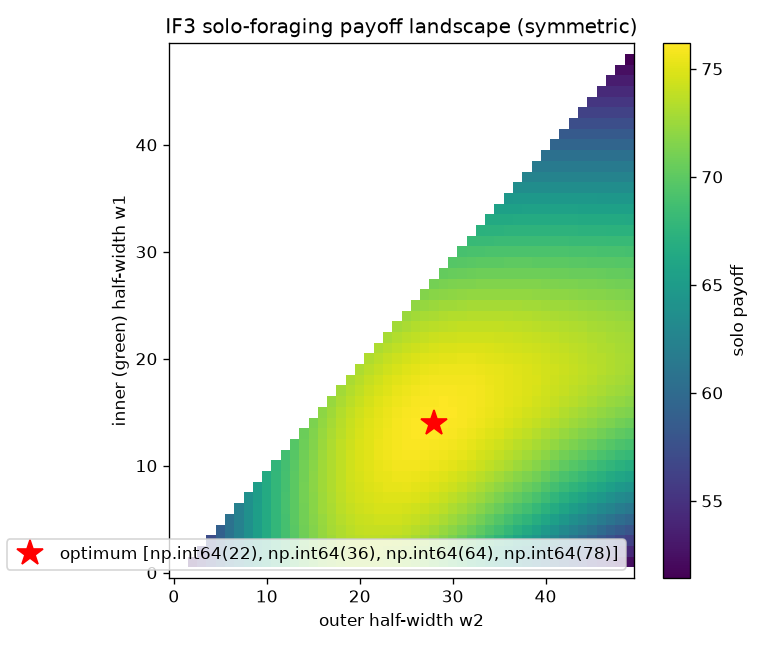
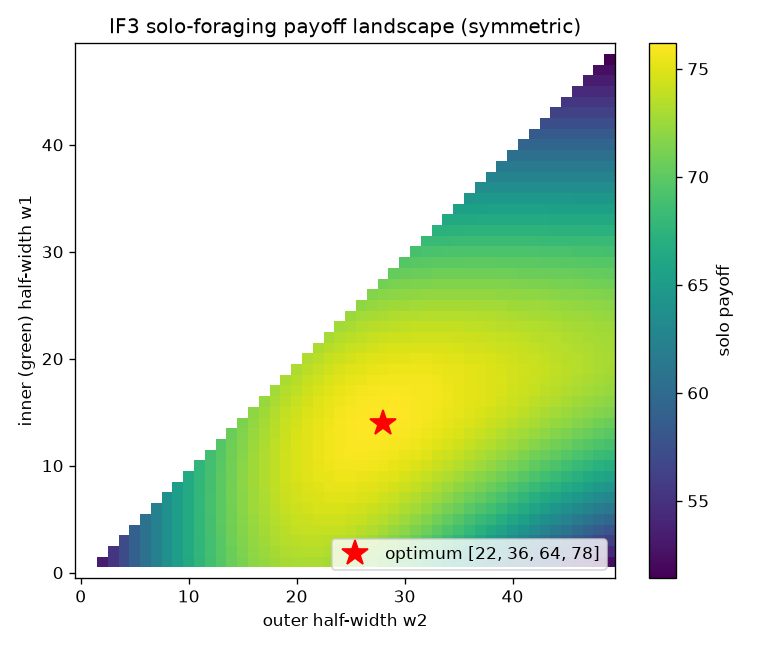
Rename optimize.py -> boundary_search.py; add docstring examples; fix IF3 label
- Rename the module and its tests to boundary_search (clearer than 'optimize').
- Add concrete worked examples to the module and function docstrings (the search
  in miniature, solo_foraging_payoff, optimize_boundaries, both candidate generators).
- Fix the IF3 landscape legend to show plain ints [22, 36, 64, 78] (was np.int64(...)).

Changed region(s): [[0.0, 0.0309, 0.9688, 0.9877], [0.6562, 0.8951, 0.7188, 0.9259], [0.0312, 0.3086, 0.0625, 0.3395]]

diff --git a/sim/tests/test_boundary_search.py b/sim/tests/test_boundary_search.py
@@ -1,5 +1,5 @@
 """
-Tests for sim/optimize.py (Chunk 5: the boundary optimizer).
+Tests for sim/boundary_search.py (Chunk 5: the boundary optimizer).
 
 Same philosophy: each function checked on its own against independently-computed
 expectations. The full CR3/IF3 anchor (boundaries ~30/70 etc.) is a slow validation
@@ -18,7 +18,7 @@ sys.path.insert(0, SIM_DIR)
 
 import competition  # noqa: E402
 import model  # noqa: E402
-import optimize  # noqa: E402
+import boundary_search  # noqa: E402
 
 
 def fresh_rng(seed=0):
@@ -33,7 +33,7 @@ def test_solo_foraging_payoff_takes_the_most_preferred_territory():
     """Ordinary case: forager takes its highest-preference territory and collects its worth."""
     preferences = np.array([[10.0, 30.0, 20.0]])   # territory 1 is most preferred
     round_utilities = np.array([[5.0, 9.0, 7.0]])
-    assert optimize.solo_foraging_payoff(preferences, round_utilities, fresh_rng()) == pytest.approx(9.0)
+    assert boundary_search.solo_foraging_payoff(preferences, round_utilities, fresh_rng()) == pytest.approx(9.0)
 
 
 def test_solo_foraging_truth_equals_best_of_three():
@@ -44,7 +44,7 @@ def test_solo_foraging_truth_equals_best_of_three():
     round_utilities = model.utility(foraging_rounds)
     truth = competition.truth_preferences(foraging_rounds)
 
-    engine = optimize.solo_foraging_payoff(truth, round_utilities, fresh_rng())
+    engine = boundary_search.solo_foraging_payoff(truth, round_utilities, fresh_rng())
     independent = round_utilities.max(axis=1).mean()
     assert engine == pytest.approx(independent)
 
@@ -57,7 +57,7 @@ def test_solo_foraging_all_ties_equals_mean_territory_worth():
     round_utilities = model.utility(foraging_rounds)
     flat_preferences = np.zeros_like(round_utilities)   # nothing distinguishes the territories
 
-    engine = optimize.solo_foraging_payoff(flat_preferences, round_utilities, fresh_rng(3))
+    engine = boundary_search.solo_foraging_payoff(flat_preferences, round_utilities, fresh_rng(3))
     assert engine == pytest.approx(round_utilities.mean(), abs=0.1)
 
 
@@ -76,10 +76,10 @@ def test_optimize_boundaries_returns_the_argmax():
     independent = []
     for boundaries in candidates:
         prefs = competition.cr3_preferences(foraging_rounds, boundaries)
-        independent.append(optimize.solo_foraging_payoff(prefs, round_utilities, fresh_rng(0)))
+        independent.append(boundary_search.solo_foraging_payoff(prefs, round_utilities, fresh_rng(0)))
     expected_winner = candidates[int(np.argmax(independent))]
 
-    result = optimize.optimize_boundaries(competition.cr3_preferences, candidates, foraging_rounds, round_utilities)
+    result = boundary_search.optimize_boundaries(competition.cr3_preferences, candidates, foraging_rounds, round_utilities)
     assert np.array_equal(result.optimal_boundaries, expected_winner)
     assert result.optimal_payoff == pytest.approx(max(independent))
     assert result.candidate_payoffs == pytest.approx(independent)
@@ -91,8 +91,8 @@ def test_optimize_boundaries_is_deterministic():
     round_utilities = model.utility(foraging_rounds)
     candidates = np.array([[30.0, 70.0], [40.0, 60.0]])
 
-    a = optimize.optimize_boundaries(competition.cr3_preferences, candidates, foraging_rounds, round_utilities)
-    b = optimize.optimize_boundaries(competition.cr3_preferences, candidates, foraging_rounds, round_utilities)
+    a = boundary_search.optimize_boundaries(competition.cr3_preferences, candidates, foraging_rounds, round_utilities)
+    b = boundary_search.optimize_boundaries(competition.cr3_preferences, candidates, foraging_rounds, round_utilities)
     assert np.array_equal(a.candidate_payoffs, b.candidate_payoffs)
     assert np.array_equal(a.optimal_boundaries, b.optimal_boundaries)
 
@@ -103,7 +103,7 @@ def test_optimize_boundaries_is_deterministic():
 
 def test_cr3_candidate_boundaries_are_all_ordered_pairs_in_range():
     """Every candidate is a strictly-ordered pair inside [1, 99]; count = C(99,2)."""
-    candidates = optimize.cr3_candidate_boundaries()
+    candidates = boundary_search.cr3_candidate_boundaries()
     assert candidates.shape == (99 * 98 // 2, 2)
     assert np.all(candidates[:, 0] < candidates[:, 1])
     assert candidates.min() >= 1 and candidates.max() <= 99
@@ -113,7 +113,7 @@ def test_if3_symmetric_candidates_are_symmetric_and_ordered():
     """Every candidate has 4 boundaries symmetric about the peak (sum to 100 in pairs),
     strictly ascending, with inner width < outer width.
     """
-    candidates = optimize.if3_symmetric_candidate_boundaries()
+    candidates = boundary_search.if3_symmetric_candidate_boundaries()
     assert candidates.shape[1] == 4
     assert np.allclose(candidates[:, 0] + candidates[:, 3], 100)   # outer pair symmetric about 50
     assert np.allclose(candidates[:, 1] + candidates[:, 2], 100)   # inner pair symmetric about 50

diff --git a/sim/boundary_search.py b/sim/boundary_search.py
@@ -14,7 +14,12 @@ All candidates are scored on the SAME fixed batch of foraging rounds and the sam
 tie-break seed (common random numbers), so the comparison between candidates is
 clean and the whole search is deterministic.
 
-Tests: sim/tests/test_optimize.py
+The whole search, in miniature (CR3):
+    candidate_boundaries = [[30, 70], [10, 20], [45, 55]]   # each row = one config to try
+    scores               = [ 72.9,     58.1,     69.4    ]  # solo_foraging_payoff of each
+    -> optimal_boundaries = [30, 70]                         # the argmax row
+
+Tests: sim/tests/test_boundary_search.py
 """
 from __future__ import annotations
 
@@ -53,6 +58,11 @@ def solo_foraging_payoff(
     `preferences` and `round_utilities` are both shape (rounds, territories);
     `round_utilities` is utility(foraging_rounds), precomputed once so the search does
     not recompute it for every candidate.
+
+    Example (1 round, 3 territories):
+        preferences     = [[10, 30, 20]]   # territory 1 is most preferred
+        round_utilities = [[ 5,  9,  7]]   # its worth is 9
+        returns           9.0              # forager takes territory 1, collects 9
     """
     available = np.ones_like(preferences, dtype=bool)
     choice = most_preferred(preferences, available, rng)
@@ -72,6 +82,11 @@ def optimize_boundaries(
     Each candidate is scored on the SAME `foraging_rounds` and the same tie-break seed
     (common random numbers), so payoff differences reflect the boundaries, not sampling
     noise, and the result is deterministic.
+
+    Example (searching 3 CR3 configs):
+        candidate_boundaries = [[30, 70], [10, 20], [45, 55]]
+        build_preferences    = cr3_preferences
+        -> scores  [72.9, 58.1, 69.4]  ->  optimal_boundaries = [30, 70]
     """
     candidate_payoffs = np.empty(len(candidate_boundaries), dtype=float)
     for index, boundaries in enumerate(candidate_boundaries):
@@ -89,7 +104,11 @@ def optimize_boundaries(
 
 
 def cr3_candidate_boundaries() -> NDArray:
-    """Every ordered pair of integer boundaries 1 <= b1 < b2 <= MAX-1 (unconstrained)."""
+    """Every ordered pair of integer boundaries 1 <= b1 < b2 <= MAX-1 (unconstrained).
+
+    Each row is one [b1, b2] config; C(99, 2) = 4851 rows:
+        [[1, 2], [1, 3], ..., [31, 71], ..., [98, 99]]
+    """
     highest = MAX_RESOURCE_VALUE - 1  # a boundary at MAX would leave the top band empty
     pairs = [(b1, b2) for b1 in range(1, highest + 1) for b2 in range(b1 + 1, highest + 1)]
     return np.array(pairs, dtype=float)
@@ -97,7 +116,11 @@ def cr3_candidate_boundaries() -> NDArray:
 
 def if3_symmetric_candidate_boundaries() -> NDArray:
     """Integer boundaries symmetric about the peak: [peak-w2, peak-w1, peak+w1, peak+w2]
-    for 1 <= w1 < w2, staying inside [1, MAX-1]. Two free half-widths (green, outer)."""
+    for 1 <= w1 < w2, staying inside [1, MAX-1]. Two free half-widths (green, outer).
+
+    Each row is one 4-boundary config; e.g. w1=14, w2=28 -> [22, 36, 64, 78]
+    (green peak band 36-64, yellow shoulders, red tails). ~1176 rows.
+    """
     peak = int(PEAK_RESOURCE_VALUE)
     widest = min(peak - 1, MAX_RESOURCE_VALUE - 1 - peak)  # keep all four boundaries in range
     candidates = [
